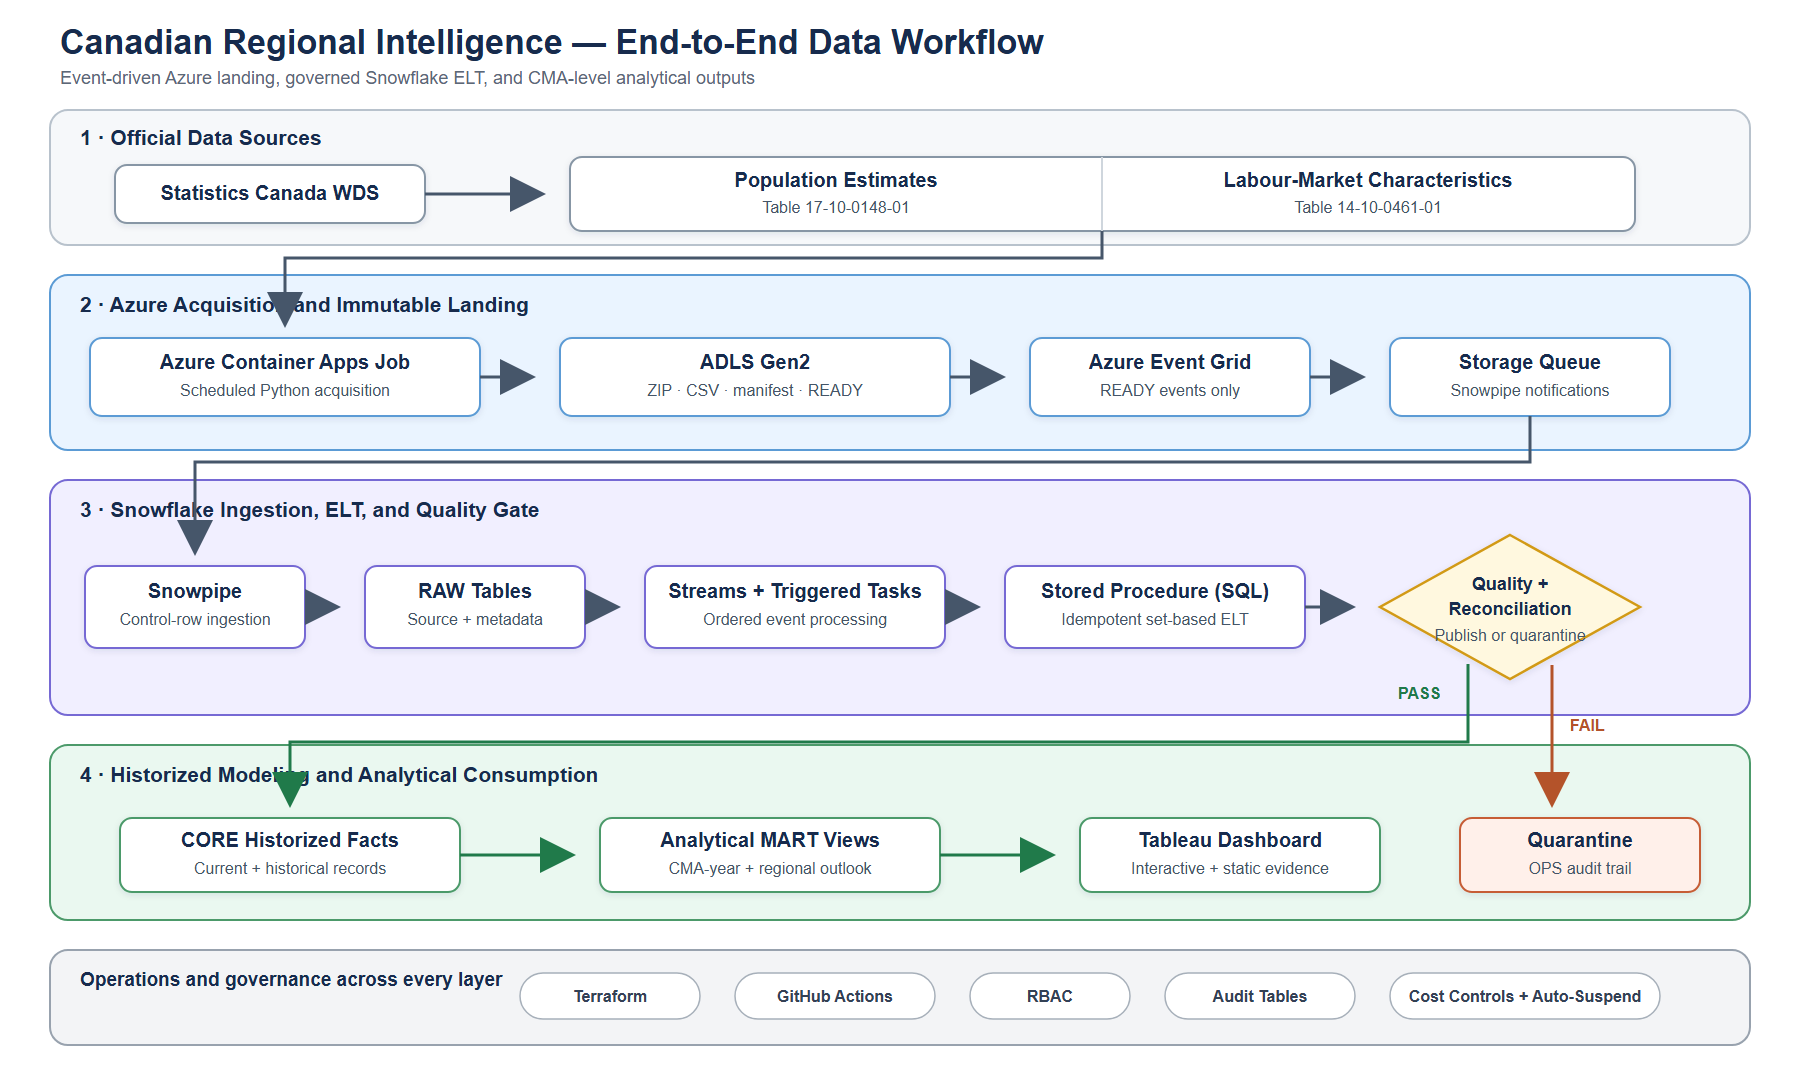
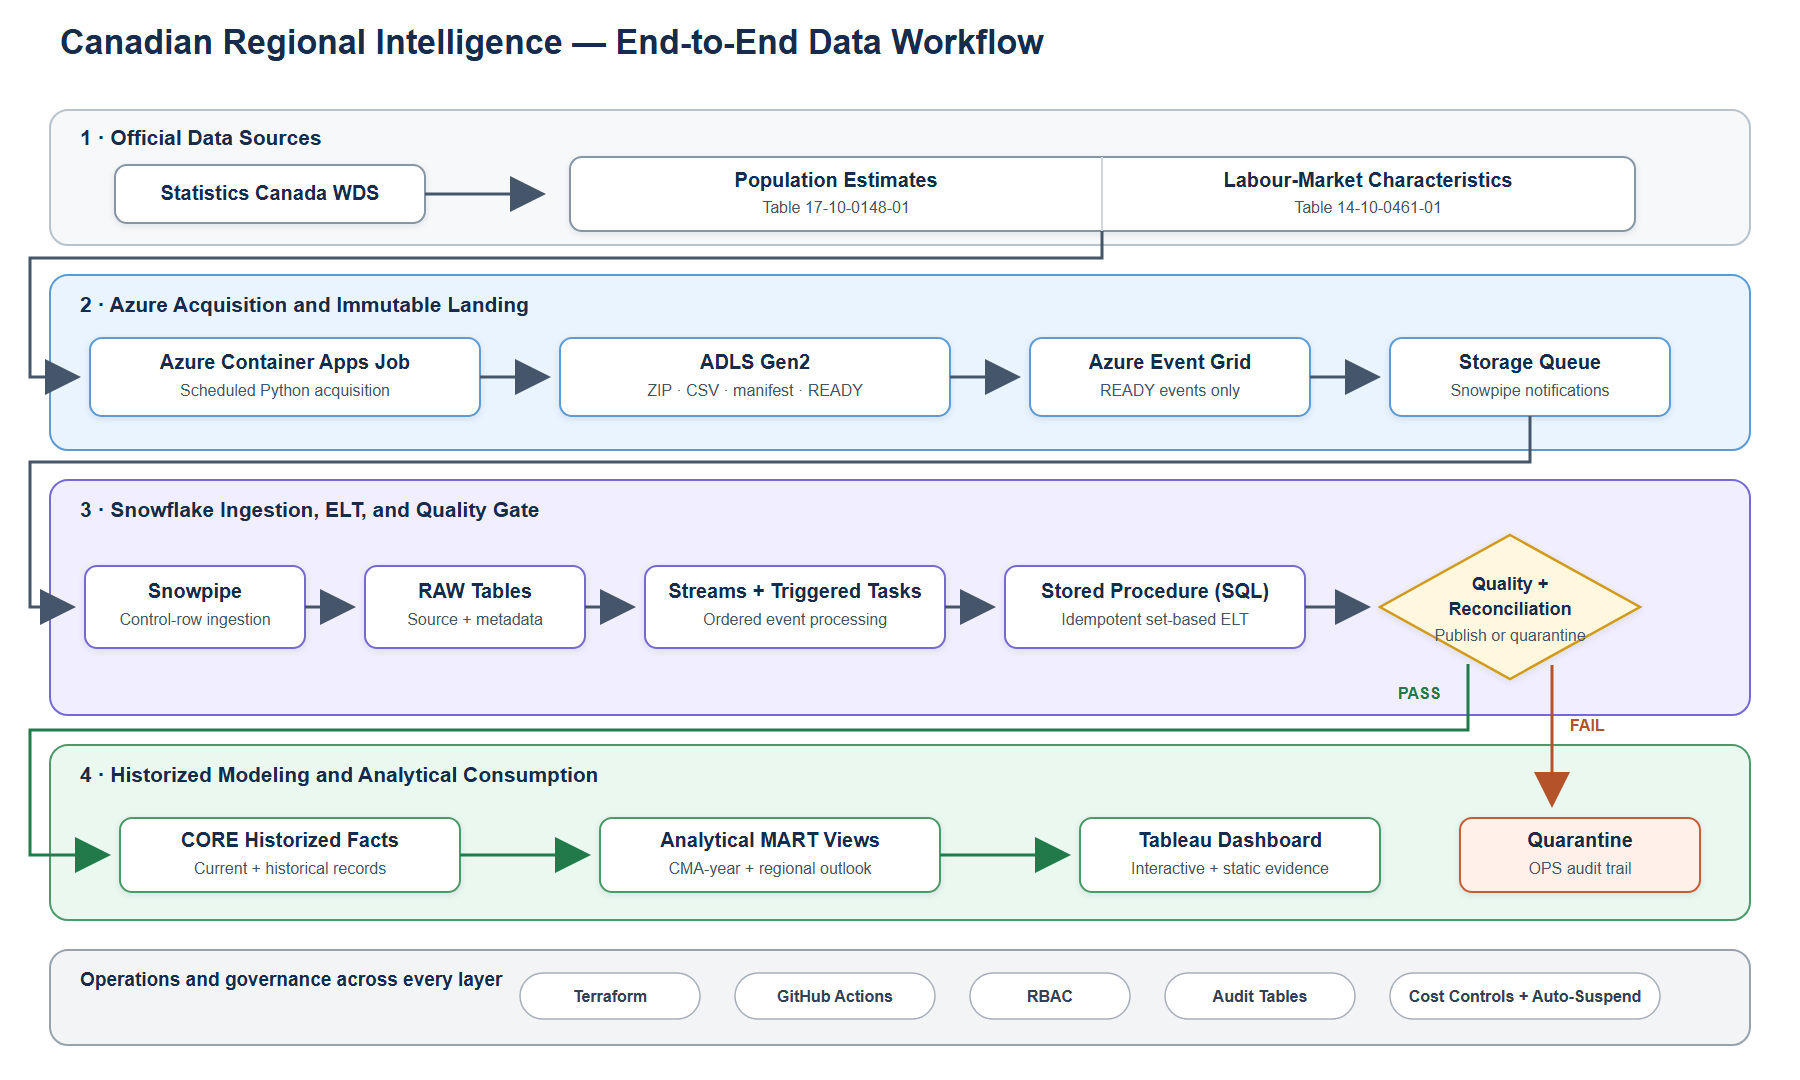
Clarify architecture and README structure

diff --git a/README.md b/README.md
@@ -14,25 +14,30 @@ The MVP demonstrates event-driven ingestion on Azure, immutable and idempotent l
 
 *Tableau dashboard connecting CMA population growth, current unemployment pressure, and employment-rate change across 41 Canadian metropolitan areas.*
 
-[Open the full-resolution image](analytics/tableau/canadian_regional_intelligence.png) | [Download the packaged Tableau workbook](analytics/tableau/canadian_regional_intelligence.twbx)
-
-The Tableau presentation layer consumes versioned snapshots exported from the published Snowflake MART; transformation and benchmarking logic remains in version-controlled SQL. The dashboard makes the engineering output decision-ready by comparing CMA population growth with current labour-market pressure and longer-term employment-rate change.
-
-### Main insights
-
-- The 2025 analytical snapshot covers **41 CMAs and 31.2 million residents**. Median population growth since 2019 was **12.37%**, while median unemployment was **6.7%**.
-- **Moncton led population growth at 26.48%** and remained below the CMA median unemployment rate at 6.1%. Calgary grew 22.13%, but its 7.4% unemployment rate was above the median.
-- Among Canada's six largest CMAs, **Calgary grew fastest at 22.13%**, while Montréal grew slowest at 6.24%; all six remained above their 2019 population baselines.
-- Population growth did not consistently translate into stronger employment rates: **Kelowna grew 15.46% but recorded the largest employment-rate decline at 6.5 percentage points**.
-- Across all CMAs, population growth and unemployment had a **modest positive correlation of 0.326**. This is descriptive, not causal, and highlights why both demographic demand and labour-market capacity should be assessed together.
-
-The four regional quadrants use the snapshot medians as relative benchmarks; they are not causal or normative classifications. The supporting [Snowflake insight queries](sql/90_verification/002_regional_insights.sql), [Tableau export queries](sql/90_verification/003_tableau_exports.sql), and [versioned analytical snapshots](analytics/snapshots/2025) make every displayed result reproducible.
-
 ## MVP workflow
 
 [![Canadian Regional Intelligence end-to-end architecture](docs/assets/architecture.svg)](docs/assets/architecture.svg)
 
 The workflow moves two official Statistics Canada datasets through immutable Azure landing, event-driven Snowflake ingestion, governed ELT, and a CMA-year analytical mart. A [PNG version](docs/assets/architecture.png) is available for platforms that do not render SVG.
+
+### Snowflake dimensional model
+
+```text
+CORE.FACT_POPULATION_HISTORY --> CORE.VW_POPULATION_CURRENT --\
+                                                                \
+CORE.DIM_CMA (one row/CMA) -------------------------------------> MART.CMA_YEAR_LABOUR_MARKET
+                                                                /   (one row/CMA/year)
+CORE.FACT_LABOUR_HISTORY -----> CORE.VW_LABOUR_CURRENT --------/              |
+                                                                               v
+                                                           MART.CMA_REGIONAL_OUTLOOK
+                                                               (latest year/CMA)
+```
+
+The model separates historized source facts from current-state views, a conformed CMA dimension keyed by Statistics Canada DGUID, and business-facing marts. This preserves source-vintage history while giving analysts a stable CMA-year grain for cross-domain population and labour-market analysis.
+
+### Cost-aware operations
+
+Here, cost-aware operations means designing DEV resources to stop consuming compute when idle and to fail safely before unexpected usage grows. The scheduled Container Apps Job replaces an always-on acquisition service; the Snowflake warehouse is X-Small, initially suspended, and auto-suspends after 60 seconds. A five-credit monthly resource monitor notifies at 50% and 80%, suspends at 90%, and suspends immediately at 100%. Query timeouts and the documented teardown procedure provide additional safeguards.
 
 ## Authoritative data sources
 
@@ -56,6 +61,18 @@ The DEV pipeline was exercised end to end on Azure and Snowflake on August 13, 2
 The analytical mart contains 615 rows: a complete panel of 41 CMAs across 15 annual periods from 2011 through 2025. An immediate replay of both immutable source archives returned `SKIPPED`, demonstrating content-addressed idempotency before Snowflake loading.
 
 See [docs/evidence.md](docs/evidence.md) for the acceptance evidence and interpretation of source, conformed, and mart record counts.
+
+## Analytical consumption and insights
+
+The Tableau presentation layer consumes versioned snapshots exported from the published Snowflake MART; transformation and benchmarking logic remains in version-controlled SQL. The dashboard makes the engineering output decision-ready by comparing CMA population growth with current labour-market pressure and longer-term employment-rate change.
+
+### Main insights
+
+- The 2025 analytical snapshot covers **41 CMAs and 31.2 million residents**. Median population growth since 2019 was **12.37%**, while median unemployment was **6.7%**.
+- **Moncton led population growth at 26.48%** and remained below the CMA median unemployment rate at 6.1%. Calgary grew 22.13%, but its 7.4% unemployment rate was above the median.
+- Among Canada's six largest CMAs, **Calgary grew fastest at 22.13%**, while Montréal grew slowest at 6.24%; all six remained above their 2019 population baselines.
+- Population growth did not consistently translate into stronger employment rates: **Kelowna grew 15.46% but recorded the largest employment-rate decline at 6.5 percentage points**.
+- Across all CMAs, population growth and unemployment had a **modest positive correlation of 0.326**. This is descriptive, not causal, and highlights why both demographic demand and labour-market capacity should be assessed together.
 
 ## Local validation
 
@@ -81,23 +98,65 @@ The second identical run reports `SKIPPED` for both content-addressed batches.
 
 ```text
 .
-|-- .github/workflows/          # CI checks
+|-- .github/workflows/ci.yml    # Python, SQL, Terraform, and container CI checks
 |-- analytics/
-|   |-- snapshots/2025/         # Versioned Snowflake MART exports
-|   `-- tableau/                # Packaged workbook and static dashboard
-|-- docs/                       # Architecture and operational guidance
+|   |-- snapshots/2025/
+|   |   |-- cma_year_trends_2011_2025.csv  # Versioned CMA-year MART export
+|   |   |-- regional_outlook_2025.csv       # Latest-year benchmark export
+|   |   `-- README.md                         # Snapshot lineage and regeneration notes
+|   `-- tableau/
+|       |-- canadian_regional_intelligence.png   # Static dashboard evidence
+|       |-- canadian_regional_intelligence.twbx  # Packaged Tableau workbook
+|       `-- README.md                            # Tableau inputs and presentation scope
+|-- docs/
+|   |-- assets/architecture.svg  # Source workflow diagram
+|   |-- assets/architecture.png  # Portable workflow diagram rendering
+|   |-- architecture.md          # Design decisions, ordering, security, and cost controls
+|   |-- deployment.md            # Ordered Azure/Snowflake deployment and teardown runbook
+|   `-- evidence.md              # Live MVP acceptance evidence and count reconciliation
 |-- infra/
-|   |-- azure/                  # Azure DEV Terraform
-|   `-- snowflake/              # Snowflake DEV Terraform
-|-- scripts/                    # Bootstrap and deployment helpers
+|   |-- azure/
+|   |   |-- main.tf              # ADLS, Event Grid, queue, identity, ACR, and Container Apps Job
+|   |   |-- variables.tf         # Azure input contracts and defaults
+|   |   |-- outputs.tf           # Integration identifiers required by Snowflake
+|   |   |-- versions.tf          # Terraform/provider and remote-state configuration
+|   |   `-- terraform.tfvars.example  # Non-secret DEV configuration template
+|   `-- snowflake/
+|       |-- main.tf              # Warehouse, monitor, RBAC, schemas, integrations, and stage
+|       |-- variables.tf         # Snowflake and Azure integration inputs
+|       |-- outputs.tf           # Database, warehouse, stage, and integration names
+|       |-- versions.tf          # Snowflake provider and Azure backend configuration
+|       `-- terraform.tfvars.example  # Non-secret DEV configuration template
+|-- scripts/
+|   |-- bootstrap_azure_backend.ps1   # Creates remote Terraform state storage
+|   |-- run_snowflake_terraform.ps1   # Runs MFA-aware Snowflake plan/apply workflows
+|   |-- deploy_snowflake_sql.ps1      # Applies ordered Snowflake SQL migrations
+|   `-- profile_source.py             # Profiles source archives before modeling
 |-- sql/
-|   |-- 10_raw/                 # Snowpipe control and source tables
-|   |-- 20_core/                # History, quality gate, Stream, Task
-|   |-- 30_marts/               # CMA analytical model
-|   |-- 40_monitoring/          # Operational views
-|   `-- 90_verification/        # Acceptance queries
-|-- src/regional_intelligence/  # Python acquisition package
-`-- tests/                      # Automated tests
+|   |-- 10_raw/001_ingestion.sql          # File formats, RAW tables, stage, and Snowpipe
+|   |-- 20_core/001_tables.sql            # Historized facts, batch audit, Stream, and quality tables
+|   |-- 20_core/002_process_batches.sql   # Idempotent set-based processing procedure
+|   |-- 20_core/003_task.sql              # Triggered Snowflake Task orchestration
+|   |-- 30_marts/001_cma_year_mart.sql    # CMA dimension and conformed CMA-year mart
+|   |-- 30_marts/002_regional_outlook.sql # Latest-year benchmarks and regional quadrants
+|   |-- 40_monitoring/001_monitoring_views.sql  # Batch, quality, and reconciliation views
+|   |-- 90_verification/001_acceptance.sql      # MVP acceptance queries
+|   |-- 90_verification/002_regional_insights.sql  # Reproducible insight queries
+|   `-- 90_verification/003_tableau_exports.sql    # Tableau snapshot export queries
+|-- src/regional_intelligence/
+|   |-- cli.py                  # Acquisition command-line entry point
+|   |-- config.py               # Validated runtime configuration
+|   |-- catalog.py              # Statistics Canada dataset catalog
+|   |-- statscan.py             # WDS discovery and resilient download client
+|   |-- archive.py              # ZIP inspection, extraction, and hashing
+|   |-- models.py               # Batch manifest and dataset contracts
+|   |-- storage.py              # Immutable local and ADLS landing adapters
+|   `-- pipeline.py             # End-to-end acquisition orchestration
+|-- tests/unit/                 # Unit tests for acquisition, hashing, storage, and idempotency
+|-- .env.example               # Local configuration template without credentials
+|-- .sqlfluff                  # Snowflake SQL lint configuration
+|-- Dockerfile                 # Non-root acquisition container image
+`-- pyproject.toml             # Package metadata, dependencies, and test/lint/type settings
 ```
 
 ## Deployment
